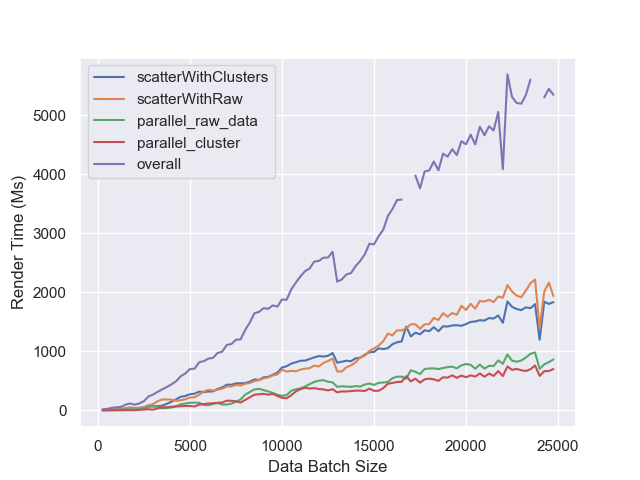
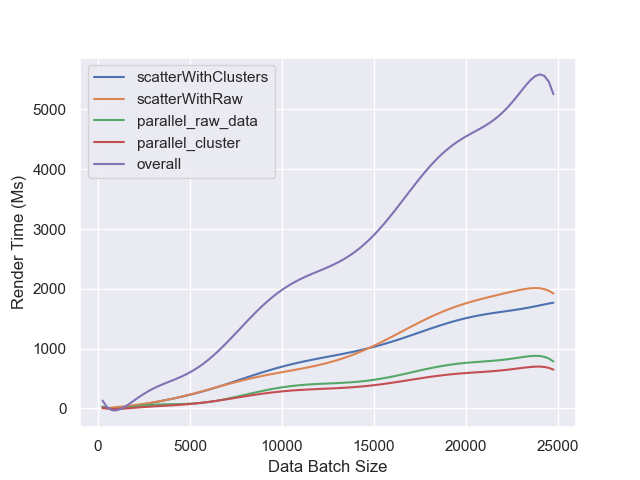
lin reg applied to render time vis

diff --git a/Clusterer/lib/automated_measurement/Render Time/visualise_render_times.py b/Clusterer/lib/automated_measurement/Render Time/visualise_render_times.py
@@ -4,8 +4,9 @@ import numpy as np
 from pprint import pprint
 import pandas as pd
 import matplotlib.pyplot as plt
-import seaborn as sns
-sns.set(color_codes=True)
+import seaborn as sns; sns.set(color_codes=True)
+from sklearn.linear_model import LinearRegression
+import math
 
 def file_name_point_quantity_extractor(el):
     splitted_el = el.split('.')
@@ -26,7 +27,10 @@ def read_data_files():
 
 def visualise_render_time(graph_avg_per_category, point_quantites):
     for curr_avg in graph_avg_per_category:
-        df = pd.DataFrame({'x': point_quantites, curr_avg: graph_avg_per_category[curr_avg]})
+        deg = math.floor(math.sqrt(len(point_quantites)))
+        lr = np.polyfit(point_quantites, graph_avg_per_category[curr_avg], deg=deg)
+        df = pd.DataFrame({'x': point_quantites, curr_avg: [np.polyval(lr, [el])[0] for el in point_quantites]})
+
         plt.plot('x', curr_avg, data=df)
         plt.xlabel('Data Batch Size')
         plt.ylabel('Render Time (Ms)')
@@ -54,6 +58,13 @@ if __name__ == "__main__":
     for graph in graphs:
         for categ_graph_data in all_graphs_data:
             avg_categ_graph_data = np.mean(all_graphs_data[categ_graph_data][graph])
+            if graph == 'overall' and math.isnan(avg_categ_graph_data):
+                categories = list(all_graphs_data.keys())
+                deg = math.floor(math.sqrt(len(graph_avg_per_category[graph])))
+                fit = np.polyfit(x=categories[:categories.index(categ_graph_data)] ,y=graph_avg_per_category[graph], deg=2)
+                val = np.polyval(fit, [categ_graph_data])
+                avg_categ_graph_data = val[0]
+                print(avg_categ_graph_data)
             graph_avg_per_category[graph].append(avg_categ_graph_data)
 
     visualise_render_time(graph_avg_per_category, point_quantites)

diff --git a/Clusterer/lib/automated_measurement/System Load/cpu_mem_reader.py b/Clusterer/lib/automated_measurement/System Load/cpu_mem_reader.py
@@ -1,3 +1,4 @@
+import math
 import argparse
 import pandas as pd
 from traceback import print_exc
@@ -6,8 +7,7 @@ import os
 import sys
 from pprint import pprint
 import numpy as np
-import seaborn as sns
-sns.set(color_codes=True)
+import seaborn as sns; sns.set(color_codes=True)
 
 categories = ['cpu_500', 'cpu_1000', 'mem_500', 'mem_1000']
 
@@ -19,8 +19,6 @@ def text_file_sorter(el):
     return (data_points, reqs)
 
 # cite: https://stackoverflow.com/questions/354038/how-do-i-check-if-a-string-is-a-number-float
-
-
 def check_number(number_string):
     try:
         if number_string == '-':
@@ -45,9 +43,8 @@ def read_data_files():
 
 def visualise_results(all_extracted_vals, intervals):
     cpu_means, mem_means = get_means(all_extracted_vals)
-    # intervals = [1, 5, 10, 20, 30, 40, 50]
-    cpu_df = pd.DataFrame(
-        {'x': intervals, '500_points': cpu_means['cpu_500'], '1000_points': cpu_means['cpu_1000']})
+
+    cpu_df = pd.DataFrame({'x': intervals, '500_points': cpu_means['cpu_500'], '1000_points': cpu_means['cpu_1000']})
     plt.plot('x', '500_points', data=cpu_df)
     plt.plot('x', '1000_points', data=cpu_df)
     plt.xlabel('Simultaneous Requests')
@@ -56,8 +53,7 @@ def visualise_results(all_extracted_vals, intervals):
     plt.savefig('cpu.png')
 
     plt.figure()
-    cpu_df = pd.DataFrame(
-        {'x': intervals, '500_points': mem_means['mem_500'], '1000_points': mem_means['mem_1000']})
+    cpu_df = pd.DataFrame({'x': intervals, '500_points': mem_means['mem_500'], '1000_points': mem_means['mem_1000']})
     plt.plot('x', '500_points', data=cpu_df)
     plt.plot('x', '1000_points', data=cpu_df)
     plt.xlabel('Simultaneous Requests')
